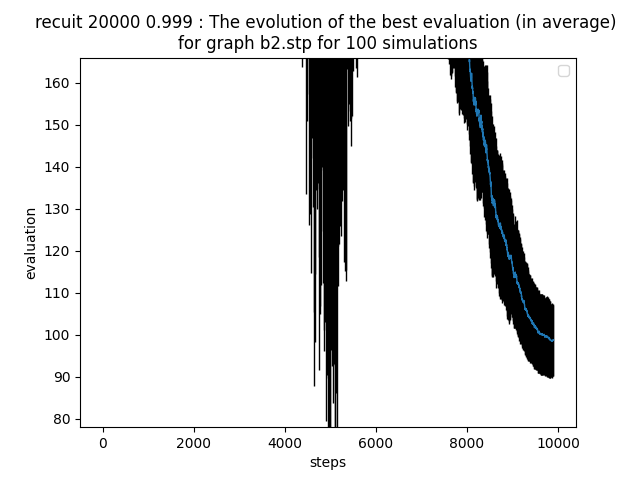
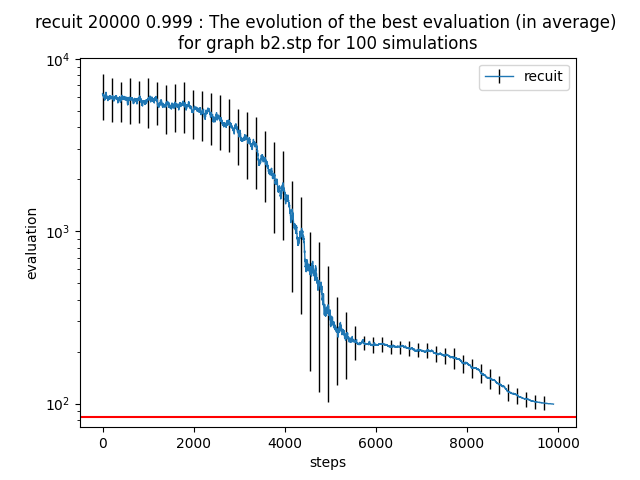
recuit simulation

diff --git a/main.py b/main.py
@@ -171,13 +171,13 @@ if __name__ == '__main__' :
     nfile = 2
     path = "data/B/b"
 
-    simulation_genetic(nfile,path,target_name = "genetic max_pop 30", label = "genetic")
-    #simulation_recuit(nfile,path,target_name = "", label = "recuit")
-    #plotEvaluation([]
-     #              ,nfile
-      #             ,path
-       #            ,target_name = ""
-        #           ,labels = [])
+    #simulation_genetic(nfile,path,target_name = "genetic max_pop 30", label = "genetic")
+    #simulation_recuit(nfile,path,target_name = "recuit 20000 0.999", label = "recuit")
+    plotEvaluation([simulation(100,nfile,path,AA.eval_file_m)]
+                   ,nfile
+                   ,path
+                   ,target_name = "recuit multiple 2000 10"
+                   ,labels = ["recuit multiple"])
 
     #simulation_genetic(nfile,path,number_of_simulation = 10,target_name = "TEST", label = "LABEL")
     #simulation_recuit(nfile,path,number_of_simulation = 10,target_name = "TEST", label = "LABEL")

diff --git a/Annealing_Algorithm.py b/Annealing_Algorithm.py
@@ -191,7 +191,7 @@ def eval_file_m(number_file : int, path : str, res : list, i : int):
         terms = my_class.terms
         graph = my_class.my_graph
         #sol, best_list = recuit(graph,terms,20000,1,0.99)
-        sol, best_list = recuit_multiple(graph,terms,2000,1,lamb = 0.99, nb_researchers = 5)
+        sol, best_list = recuit_multiple(graph,terms,2000,1,lamb = 0.99, nb_researchers = 10)
         result = Approximation.eval_sol(graph,terms,sol)
     print(f'Processing file {path+str(number_file)}.stp ended.\n')
     res[i] = (result,best_list)
